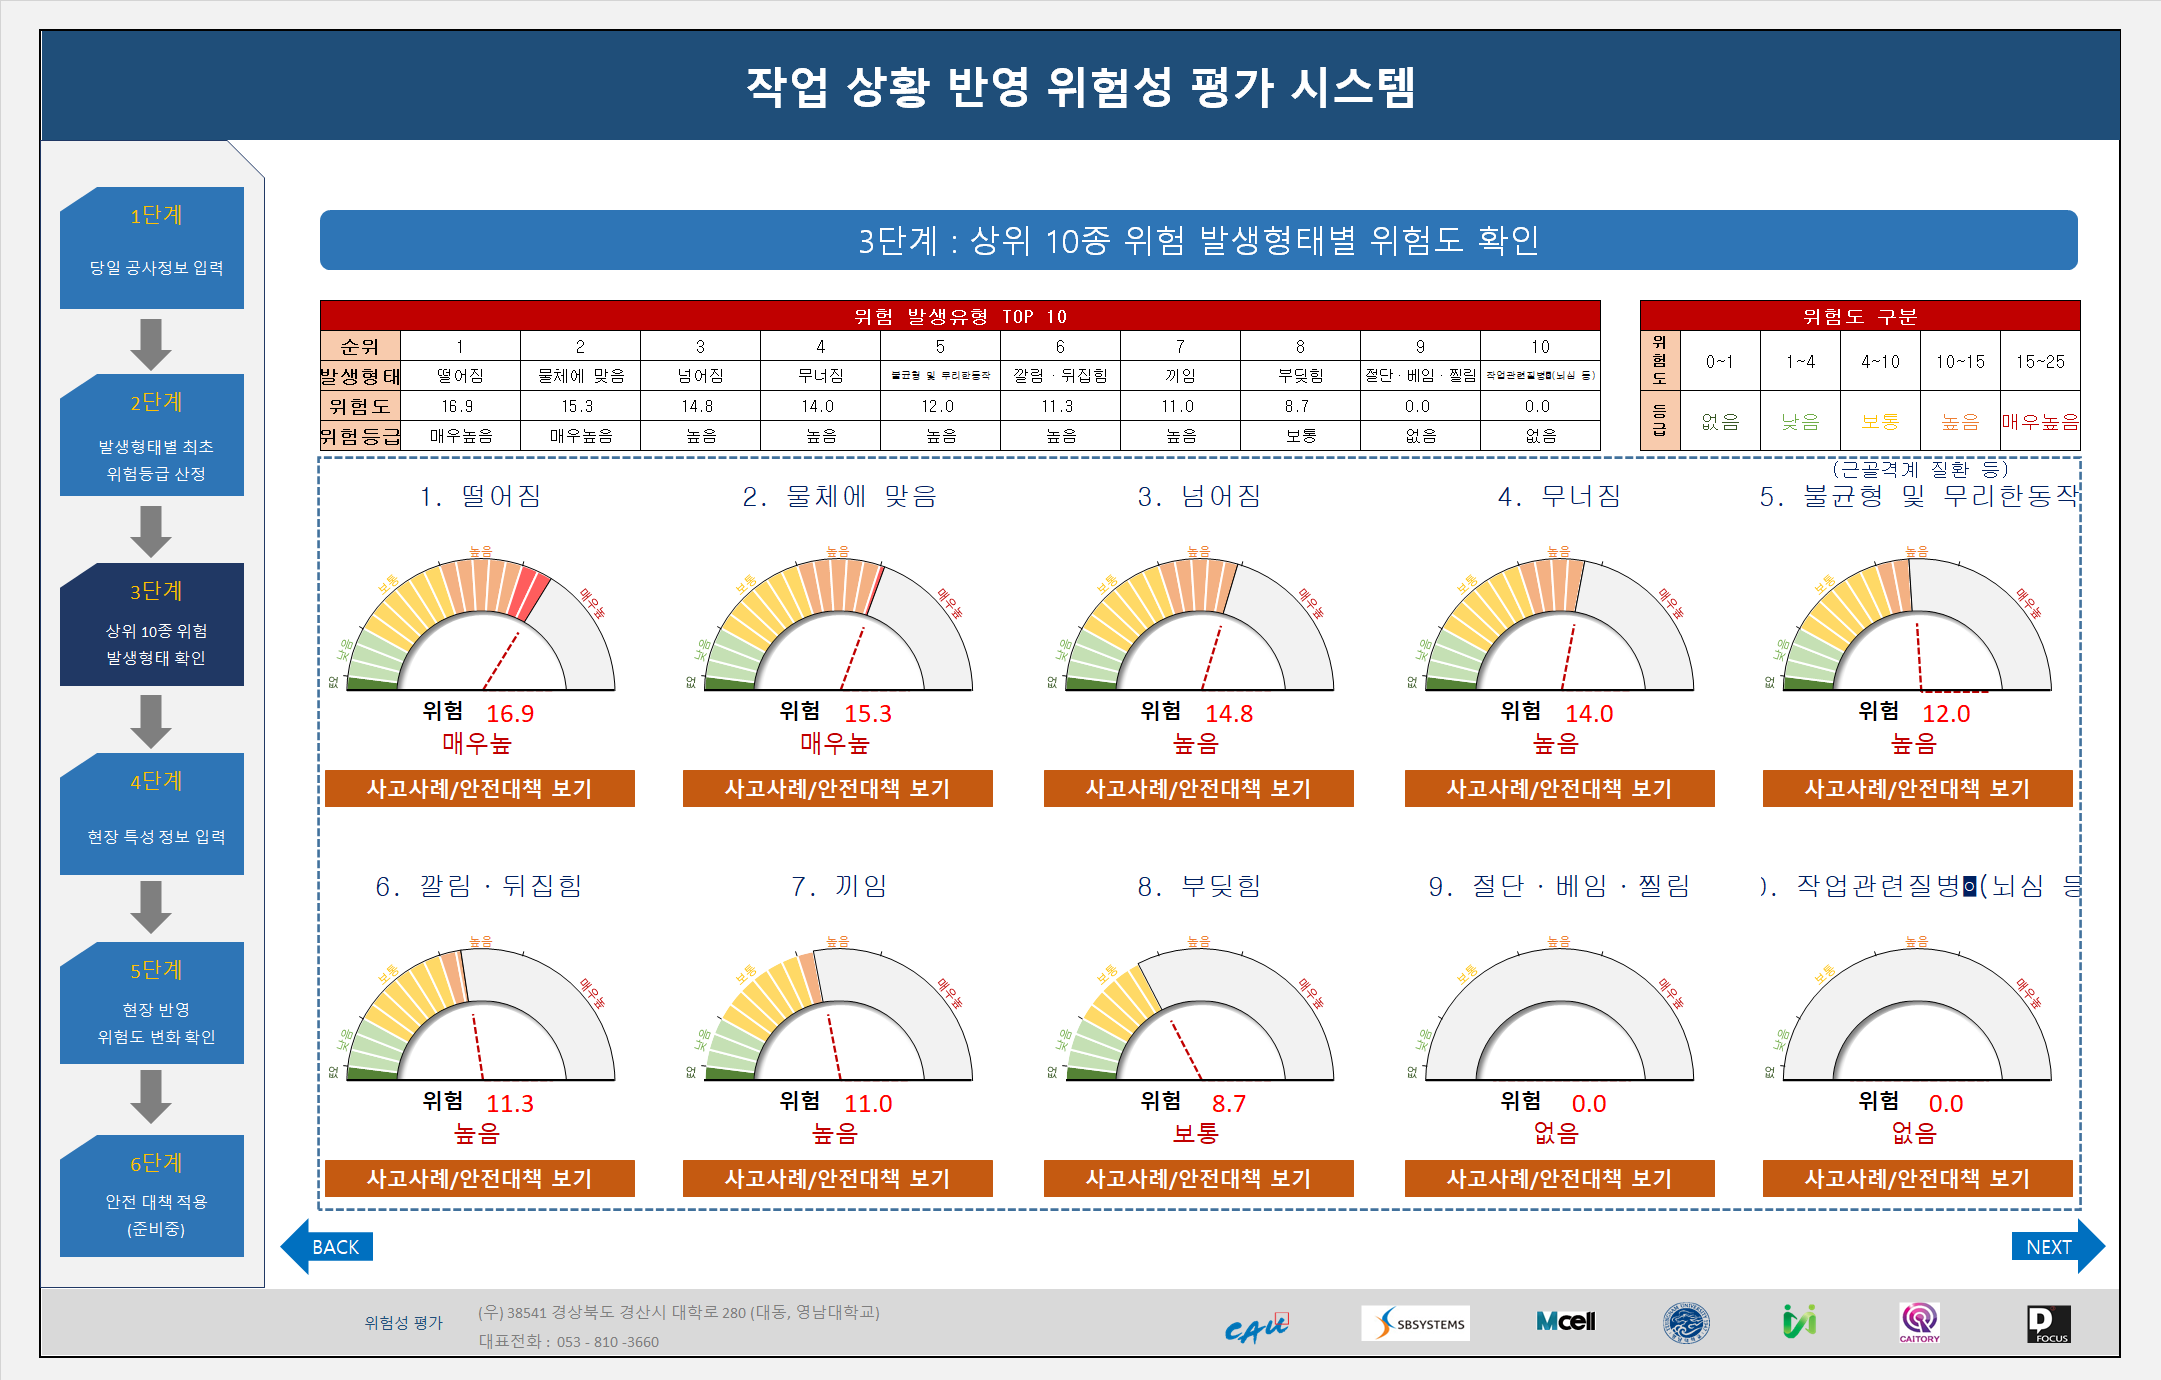
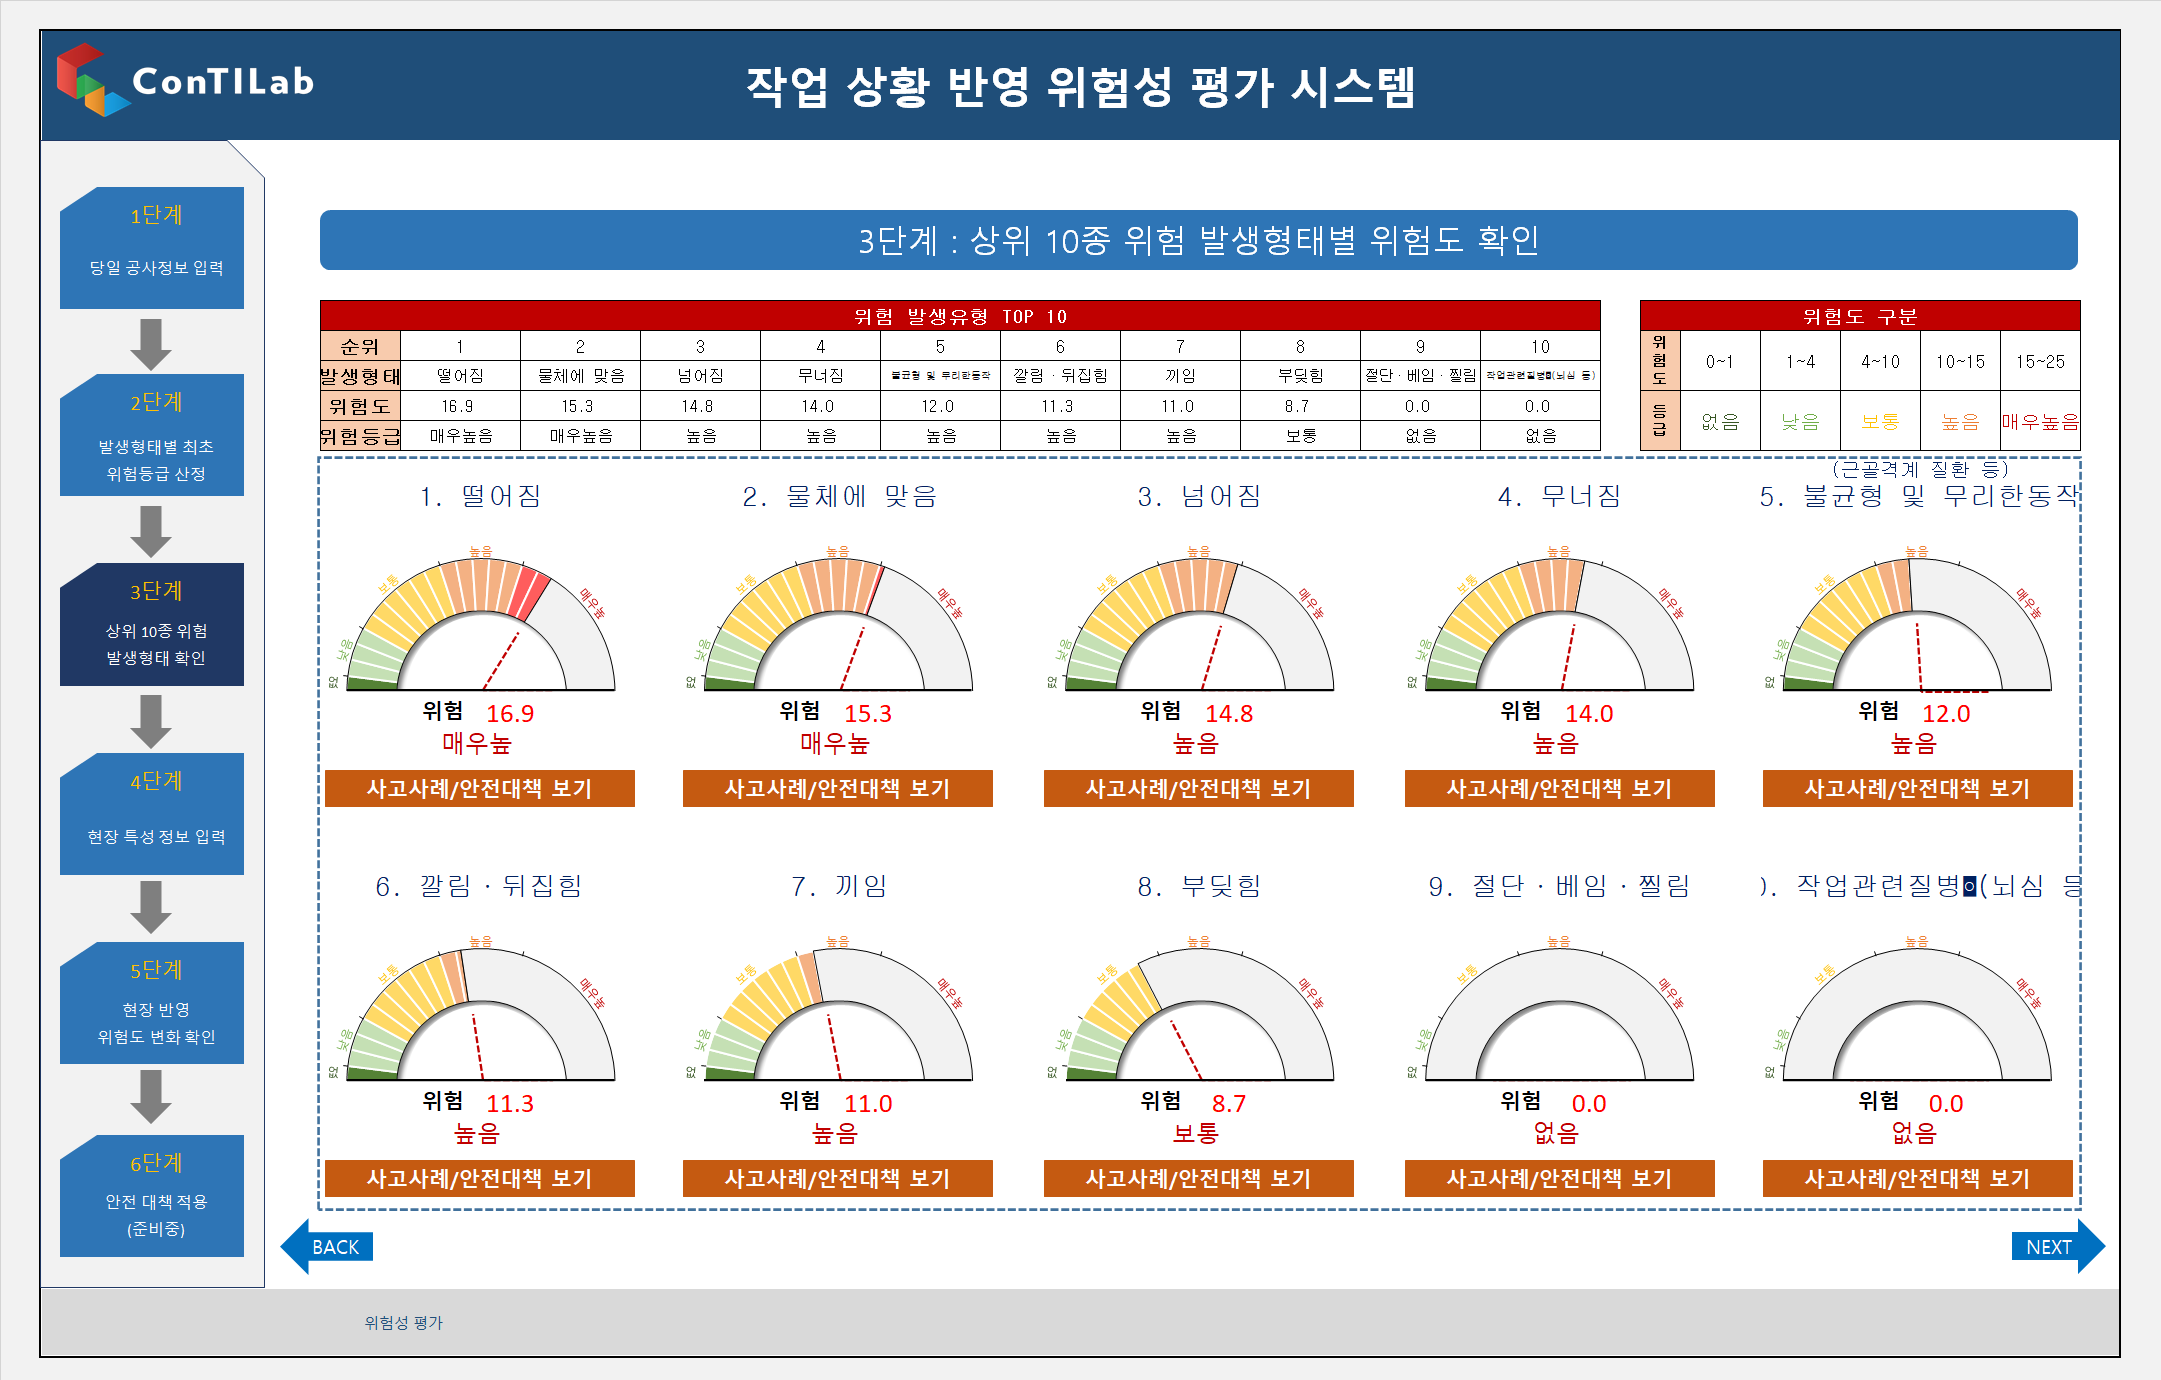
feat: iSafePlanner 일정/위험성평가 이미지 전체 폭 확대
- 주간 작업/일정 작성기·위험성 평가를 텍스트 위 + 전체 폭 이미지 레이아웃으로 변경
- 이미지 w-full h-auto(자연 비율)로 크롭 없이 크게 표시

diff --git a/src/app/isafe-planner/page.tsx b/src/app/isafe-planner/page.tsx
@@ -301,49 +301,61 @@ export default function ISafePlannerPage() {
         </section>
 
         {/* Feature sections */}
-        {getPlannerFeatures(language).map((feature) => (
-          <section key={feature.id} id={feature.id} className={`py-20 ${feature.bgClass}`}>
-            <div className="max-w-[1280px] mx-auto px-4 sm:px-6">
-              <div className={`grid grid-cols-1 lg:grid-cols-2 gap-16 items-center ${feature.reverse ? "lg:[&>*:first-child]:order-2 lg:[&>*:last-child]:order-1" : ""}`}>
-                <div className="flex flex-col justify-center">
-                  <span className={`inline-block px-3 py-1 text-xs font-semibold ${feature.tagColor} rounded-full mb-4 w-fit`}>
-                    {feature.tag}
-                  </span>
-                  <h2 className="text-[30px] font-black text-gray-900 whitespace-pre-line leading-tight mb-3">
-                    {feature.headline}
-                  </h2>
-                  <p className="text-sm font-semibold text-green-600 mb-3">{feature.subhead}</p>
-                  <p className="text-[15px] text-gray-600 leading-relaxed mb-6 max-w-lg">{feature.desc}</p>
-                  <ul className="space-y-3 mb-8">
-                    {feature.bullets.map((b) => (
-                      <li key={b} className="flex items-start gap-3 text-sm text-gray-700">
-                        <svg className="w-5 h-5 text-green-500 flex-shrink-0 mt-0.5" fill="none" stroke="currentColor" viewBox="0 0 24 24">
-                          <path strokeLinecap="round" strokeLinejoin="round" strokeWidth={2} d="M5 13l4 4L19 7" />
-                        </svg>
-                        {b}
-                      </li>
-                    ))}
-                  </ul>
-                </div>
-                {featureGifs[feature.id] ? (
-                  <div className={`rounded-2xl overflow-hidden shadow-lg ${feature.id === "scheduler" ? "aspect-[3/1]" : "aspect-video"}`}>
-                    <img
-                      src={featureGifs[feature.id]}
-                      alt={feature.placeholder.title}
-                      className="w-full h-full object-cover rounded-2xl"
-                    />
-                  </div>
+        {getPlannerFeatures(language).map((feature) => {
+          const isWide = feature.id === "scheduler" || feature.id === "risk-assessment";
+          const textBlock = (
+            <div className="flex flex-col justify-center">
+              <span className={`inline-block px-3 py-1 text-xs font-semibold ${feature.tagColor} rounded-full mb-4 w-fit`}>
+                {feature.tag}
+              </span>
+              <h2 className="text-[30px] font-black text-gray-900 whitespace-pre-line leading-tight mb-3">
+                {feature.headline}
+              </h2>
+              <p className="text-sm font-semibold text-green-600 mb-3">{feature.subhead}</p>
+              <p className="text-[15px] text-gray-600 leading-relaxed mb-6 max-w-lg">{feature.desc}</p>
+              <ul className="space-y-3">
+                {feature.bullets.map((b) => (
+                  <li key={b} className="flex items-start gap-3 text-sm text-gray-700">
+                    <svg className="w-5 h-5 text-green-500 flex-shrink-0 mt-0.5" fill="none" stroke="currentColor" viewBox="0 0 24 24">
+                      <path strokeLinecap="round" strokeLinejoin="round" strokeWidth={2} d="M5 13l4 4L19 7" />
+                    </svg>
+                    {b}
+                  </li>
+                ))}
+              </ul>
+            </div>
+          );
+          const imageBlock = featureGifs[feature.id] ? (
+            <div className="rounded-2xl overflow-hidden shadow-lg aspect-video">
+              <img src={featureGifs[feature.id]} alt={feature.placeholder.title} className="w-full h-full object-cover rounded-2xl" />
+            </div>
+          ) : (
+            <ImagePlaceholder title={feature.placeholder.title} description={feature.placeholder.description} aspectRatio="4/3" />
+          );
+          return (
+            <section key={feature.id} id={feature.id} className={`py-20 ${feature.bgClass}`}>
+              <div className="max-w-[1280px] mx-auto px-4 sm:px-6">
+                {isWide ? (
+                  <>
+                    <div className="mb-10">{textBlock}</div>
+                    <div className="rounded-2xl overflow-hidden shadow-lg border border-gray-100">
+                      <img
+                        src={featureGifs[feature.id]}
+                        alt={feature.placeholder.title}
+                        className="w-full h-auto"
+                      />
+                    </div>
+                  </>
                 ) : (
-                  <ImagePlaceholder
-                    title={feature.placeholder.title}
-                    description={feature.placeholder.description}
-                    aspectRatio="4/3"
-                  />
+                  <div className={`grid grid-cols-1 lg:grid-cols-2 gap-16 items-center ${feature.reverse ? "lg:[&>*:first-child]:order-2 lg:[&>*:last-child]:order-1" : ""}`}>
+                    {textBlock}
+                    {imageBlock}
+                  </div>
                 )}
               </div>
-            </div>
-          </section>
-        ))}
+            </section>
+          );
+        })}
 
         {/* How it works */}
         <section className="py-20 bg-gray-50">